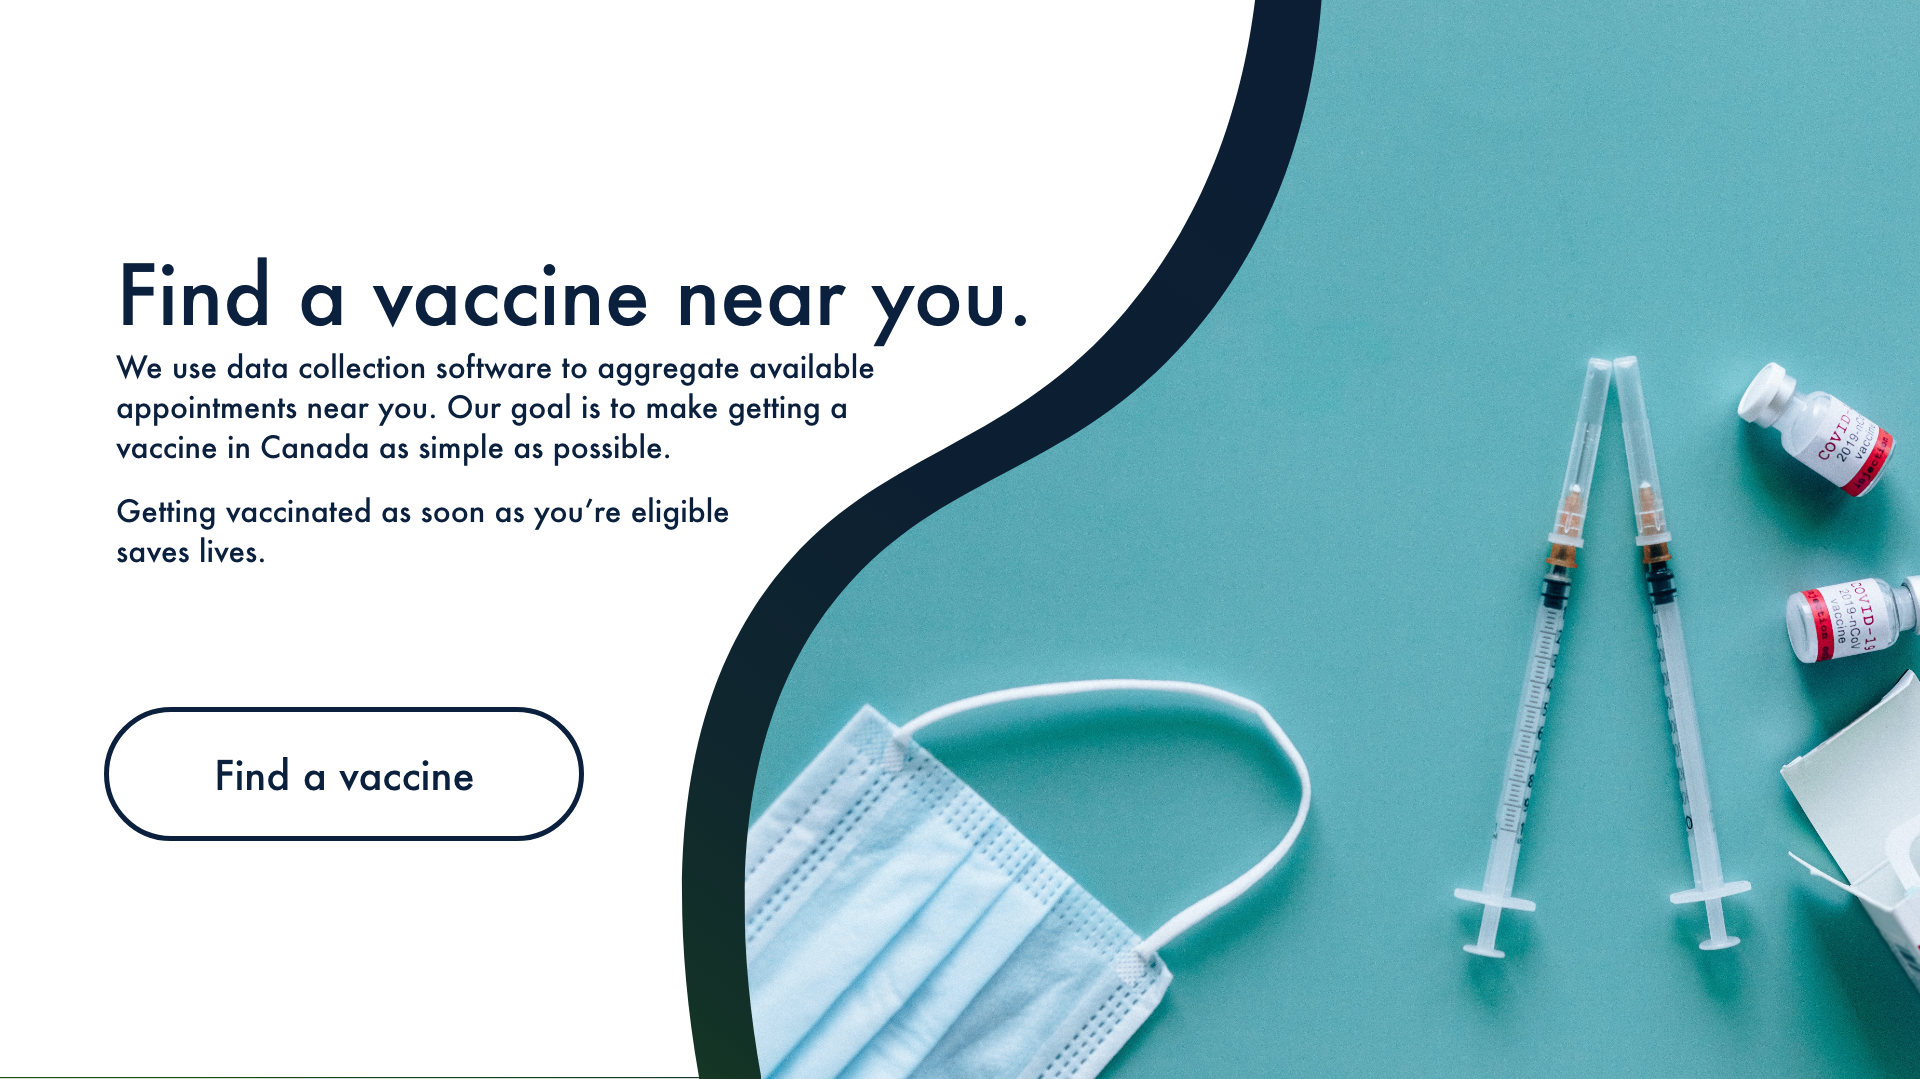
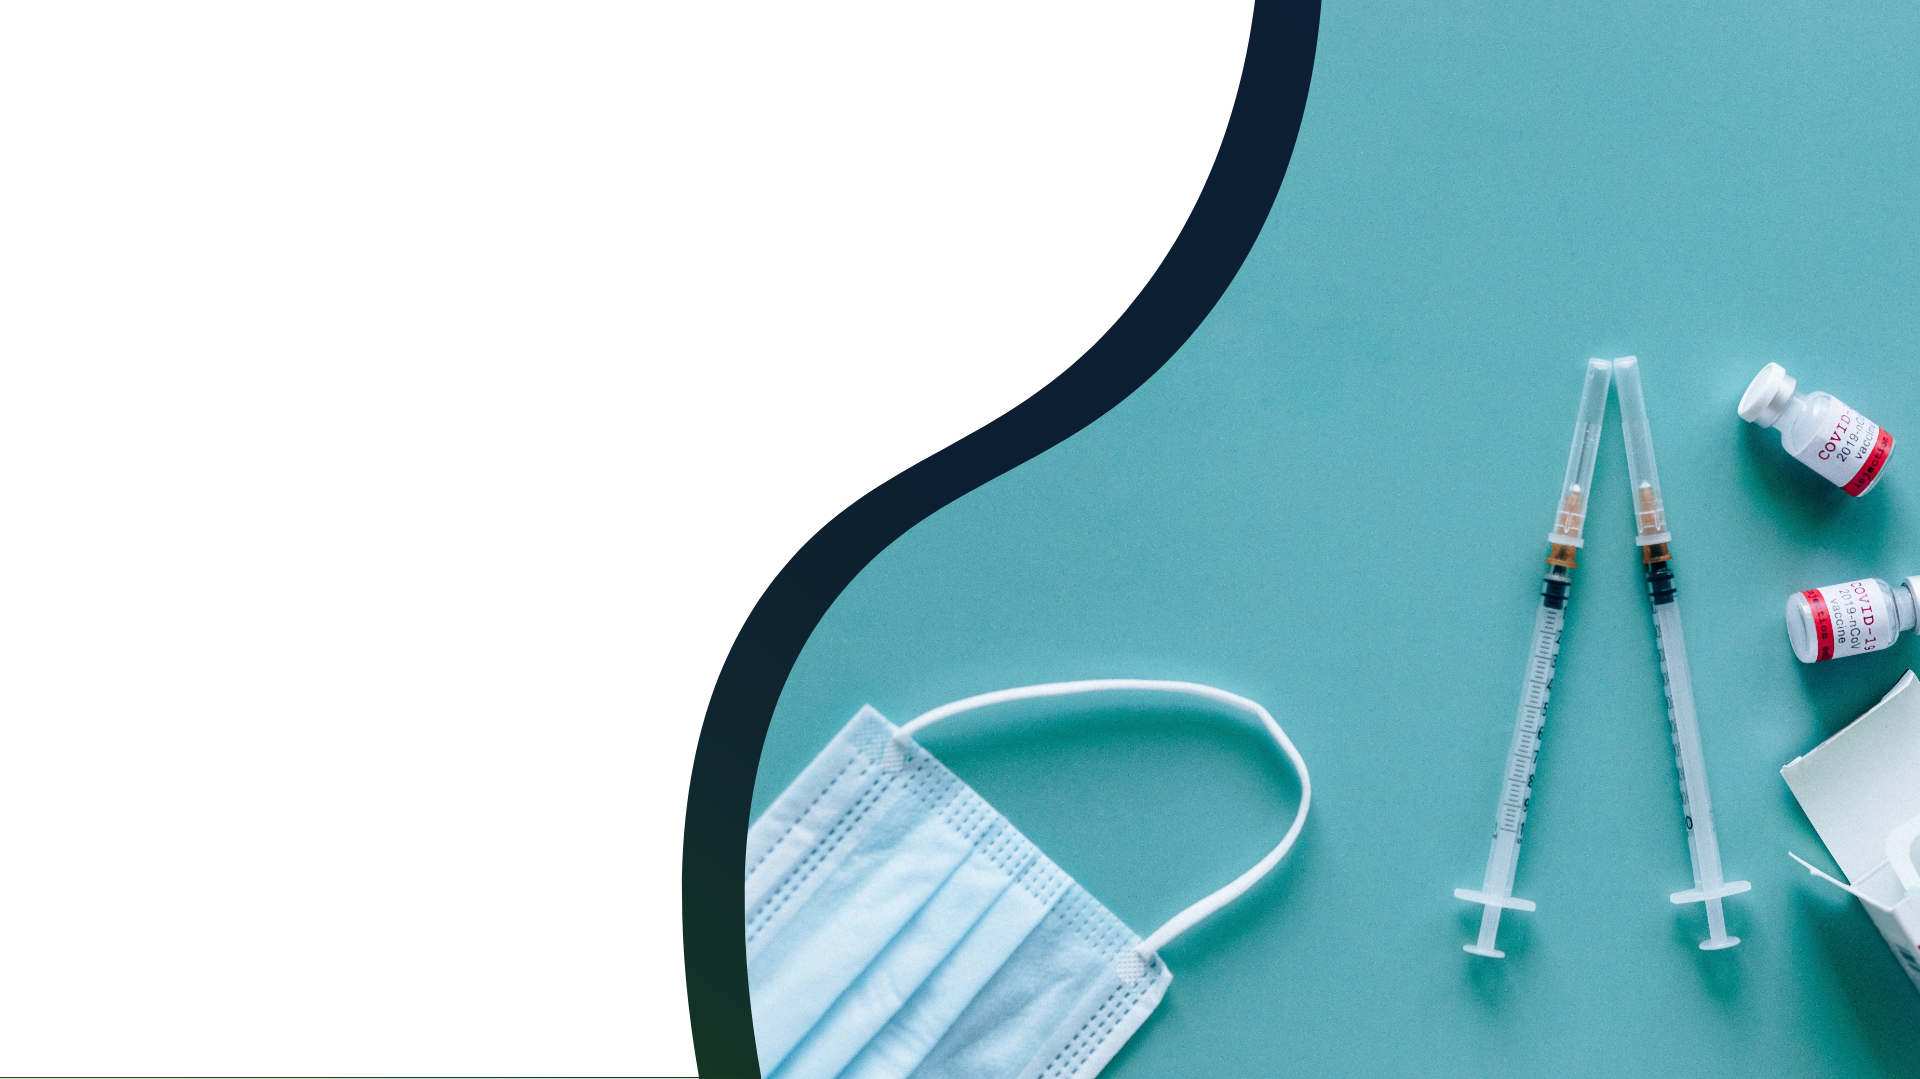
Background designs

diff --git a/templates/province.html b/templates/province.html
@@ -4,16 +4,16 @@
 <meta charset="utf-8"/>
 <meta http-equiv="X-UA-Compatible" content="IE=edge"/>
 <meta name="viewport" content="width=device-width, initial-scale=1.0">
-<title>Web 1920 – 3</title>
+<title>Province – 1</title>
 <style id="applicationStylesheet" type="text/css">
 	.mediaViewInfo {
-		--web-view-name: Web 1920 – 3;
-		--web-view-id: Web_1920__3;
+		--web-view-name: Province – 1;
+		--web-view-id: Province__1;
 		--web-scale-on-resize: true;
 		--web-enable-deep-linking: true;
 	}
 	:root {
-		--web-view-ids: Web_1920__3;
+		--web-view-ids: Province__1;
 	}
 	* {
 		margin: 0;
@@ -21,33 +21,16 @@
 		box-sizing: border-box;
 		border: none;
 	}
-	#Web_1920__3 {
+	#Province__1 {
 		position: absolute;
 		width: 1920px;
 		height: 1080px;
 		background-color: rgba(255,255,255,1);
 		overflow: hidden;
-		--web-view-name: Web 1920 – 3;
-		--web-view-id: Web_1920__3;
+		--web-view-name: Province – 1;
+		--web-view-id: Province__1;
 		--web-scale-on-resize: true;
 		--web-enable-deep-linking: true;
-	}
-	#Rectangle_120 {
-		fill: rgba(255,255,255,1);
-		stroke: rgba(112,112,112,1);
-		stroke-width: 1px;
-		stroke-linejoin: miter;
-		stroke-linecap: butt;
-		stroke-miterlimit: 4;
-		shape-rendering: auto;
-	}
-	.Rectangle_120 {
-		position: absolute;
-		overflow: visible;
-		width: 1013px;
-		height: 852px;
-		left: 846px;
-		top: 166px;
 	}
 	#Mask_Group_4 {
 		position: absolute;
@@ -57,35 +40,7 @@
 		top: 0px;
 		overflow: visible;
 	}
-	#Find_vaccines_near_you {
-		left: 483px;
-		top: 198px;
-		position: absolute;
-		overflow: visible;
-		width: 665px;
-		white-space: nowrap;
-		text-align: left;
-		font-family: Futura;
-		font-style: normal;
-		font-weight: normal;
-		font-size: 60px;
-		color: rgba(10,32,61,1);
-	}
-	#Click_anywhere_to_return_to_fu {
-		left: 483px;
-		top: 299px;
-		position: absolute;
-		overflow: visible;
-		width: 601px;
-		white-space: nowrap;
-		text-align: left;
-		font-family: Futura;
-		font-style: normal;
-		font-weight: normal;
-		font-size: 30px;
-		color: rgba(10,32,61,1);
-	}
-	#Group_87 {
+	#Component_11__2 {
 		position: absolute;
 		width: 1920px;
 		height: 135px;
@@ -113,108 +68,16 @@
 		top: 22px;
 		overflow: visible;
 	}
-	#Find_a_vaccine {
-		left: 361px;
-		top: 48px;
+	#map {
+		fill: rgba(255,255,255,1);
+	}
+	.map {
 		position: absolute;
 		overflow: visible;
-		width: 201px;
-		white-space: nowrap;
-		text-align: left;
-		font-family: Futura;
-		font-style: normal;
-		font-weight: normal;
-		font-size: 30px;
-		color: rgba(10,32,61,1);
-	}
-	#About_us {
-		left: 608px;
-		top: 48px;
-		position: absolute;
-		overflow: visible;
-		width: 201px;
-		white-space: nowrap;
-		text-align: left;
-		font-family: Futura;
-		font-style: normal;
-		font-weight: normal;
-		font-size: 30px;
-		color: rgba(10,32,61,1);
-	}
-	#Group_559 {
-		position: absolute;
-		width: 586px;
-		height: 465px;
-		left: 29px;
-		top: 540px;
-		overflow: visible;
-	}
-	#_Ontario {
-		left: 0px;
-		top: 0px;
-		position: absolute;
-		overflow: visible;
-		width: 587px;
-		white-space: nowrap;
-		text-align: left;
-		font-family: Futura;
-		font-style: normal;
-		font-weight: normal;
-		font-size: 80px;
-		color: rgba(255,255,255,1);
-	}
-	#Some_text_about_vaccinations_i {
-		left: 0px;
-		top: 210px;
-		position: absolute;
-		overflow: visible;
-		width: 449px;
-		white-space: nowrap;
-		text-align: left;
-		font-family: Futura;
-		font-style: normal;
-		font-weight: normal;
-		font-size: 40px;
-		color: rgba(255,255,255,1);
-	}
-	#Group_88 {
-		position: absolute;
-		width: 373px;
-		height: 104px;
-		left: 0px;
+		width: 954px;
+		height: 644px;
+		left: 867px;
 		top: 361px;
-		overflow: visible;
-	}
-	#Rectangle_66 {
-		fill: transparent;
-		stroke: rgba(255,255,255,1);
-		stroke-width: 5px;
-		stroke-linejoin: miter;
-		stroke-linecap: butt;
-		stroke-miterlimit: 4;
-		shape-rendering: auto;
-	}
-	.Rectangle_66 {
-		position: absolute;
-		overflow: visible;
-		width: 373px;
-		height: 104px;
-		left: 0px;
-		top: 0px;
-	}
-	#Find_an_appointment {
-		left: 42px;
-		top: 32px;
-		position: absolute;
-		overflow: visible;
-		width: 290px;
-		white-space: nowrap;
-		text-align: left;
-		font-family: Futura;
-		font-style: normal;
-		font-weight: normal;
-		font-size: 31px;
-		color: rgba(255,255,255,1);
 	}
 </style>
 <script id="applicationScript">
@@ -3057,50 +2920,21 @@ window.application = new Application();
 </script>
 </head>
 <body>
-<div id="Web_1920__3">
-	<svg class="Rectangle_120">
-		<rect id="Rectangle_120" rx="0" ry="0" x="0" y="0" width="1013" height="852">
-		</rect>
-	</svg>
+<div id="Province__1">
 	<img id="Mask_Group_4" src="Mask_Group_4.png" srcset="Mask_Group_4.png 1x, Mask_Group_4@2x.png 2x">
 		
 	</svg>
-	<div id="Find_vaccines_near_you">
-		<span>Find vaccines near you.</span>
-	</div>
-	<div id="Click_anywhere_to_return_to_fu">
-		<span>Click anywhere to return to full map view.</span>
-	</div>
-	<div id="Group_87">
+	<div id="Component_11__2" class="Component_11___2">
 		<svg class="Rectangle_80">
 			<rect id="Rectangle_80" rx="0" ry="0" x="0" y="0" width="1920" height="135">
 			</rect>
 		</svg>
 		<img id="Asset_1" src="Asset_1.png" srcset="Asset_1.png 1x, Asset_1@2x.png 2x">
 			
-		<div id="Find_a_vaccine">
-			<span>Find a vaccine</span>
-		</div>
-		<div id="About_us">
-			<span>About us</span>
-		</div>
 	</div>
-	<div id="Group_559">
-		<div id="_Ontario">
-			<span><br/>Ontario</span>
-		</div>
-		<div id="Some_text_about_vaccinations_i">
-			<span>[Some text about vaccinations in Ontario]</span>
-		</div>
-		<div id="Group_88">
-			<svg class="Rectangle_66">
-				<rect id="Rectangle_66" rx="52" ry="52" x="0" y="0" width="373" height="104">
-				</rect>
-			</svg>
-			<div id="Find_an_appointment">
-				<span>Find an appointment</span>
-			</div>
-		</div>
+	<div class="map">
+		<rect id="map" rx="0" ry="0" x="0" y="0" width="954" height="644">
+		</rect>
 	</div>
 </div>
 </body>

diff --git a/templates/main.html b/templates/main.html
@@ -4,16 +4,16 @@
 <meta charset="utf-8"/>
 <meta http-equiv="X-UA-Compatible" content="IE=edge"/>
 <meta name="viewport" content="width=device-width, initial-scale=1.0">
-<title>Web 1920 – 2</title>
+<title>main</title>
 <style id="applicationStylesheet" type="text/css">
 	.mediaViewInfo {
-		--web-view-name: Web 1920 – 2;
-		--web-view-id: Web_1920__2;
+		--web-view-name: main;
+		--web-view-id: main;
 		--web-scale-on-resize: true;
 		--web-enable-deep-linking: true;
 	}
 	:root {
-		--web-view-ids: Web_1920__2;
+		--web-view-ids: main;
 	}
 	* {
 		margin: 0;
@@ -21,14 +21,14 @@
 		box-sizing: border-box;
 		border: none;
 	}
-	#Web_1920__2 {
+	#main {
 		position: absolute;
 		width: 1920px;
 		height: 3290px;
 		background-color: rgba(255,255,255,1);
 		overflow: hidden;
-		--web-view-name: Web 1920 – 2;
-		--web-view-id: Web_1920__2;
+		--web-view-name: main;
+		--web-view-id: main;
 		--web-scale-on-resize: true;
 		--web-enable-deep-linking: true;
 	}
@@ -107,34 +107,6 @@
 		left: 110px;
 		top: 22px;
 		overflow: visible;
-	}
-	#Find_a_vaccine {
-		left: 361px;
-		top: 48px;
-		position: absolute;
-		overflow: visible;
-		width: 201px;
-		white-space: nowrap;
-		text-align: left;
-		font-family: Futura;
-		font-style: normal;
-		font-weight: normal;
-		font-size: 30px;
-		color: rgba(10,32,61,1);
-	}
-	#About_us {
-		left: 608px;
-		top: 48px;
-		position: absolute;
-		overflow: visible;
-		width: 201px;
-		white-space: nowrap;
-		text-align: left;
-		font-family: Futura;
-		font-style: normal;
-		font-weight: normal;
-		font-size: 30px;
-		color: rgba(10,32,61,1);
 	}
 </style>
 <script id="applicationScript">
@@ -2977,19 +2949,19 @@ window.application = new Application();
 </script>
 </head>
 <body>
-<div id="Web_1920__2">
+<div id="main">
 	<div id="home_page" class="home_page">
-		<img id="Mask_Group_12" src="/static/Mask_Group_12.png" srcset="/static/Mask_Group_12.png 1x, /static/Mask_Group_12@2x.png 2x">
+		<img id="Mask_Group_12" src="Mask_Group_12.png" srcset="Mask_Group_12.png 1x, Mask_Group_12@2x.png 2x">
 			
 		</svg>
 	</div>
 	<div id="what_is_vaccine_finder" class="what_is_vaccine_finder">
-		<img id="Mask_Group_9" src="/static/Mask_Group_9.png" srcset="/static/Mask_Group_9.png 1x, /static/Mask_Group_9@2x.png 2x">
+		<img id="Mask_Group_9" src="Mask_Group_9.png" srcset="Mask_Group_9.png 1x, Mask_Group_9@2x.png 2x">
 			
 		</svg>
 	</div>
 	<div id="vaccine_map" class="vaccine_map">
-		<img id="Mask_Group_6" src="/static/Mask_Group_6.png" srcset="/static/Mask_Group_6.png 1x, /static/Mask_Group_6@2x.png 2x">
+		<img id="Mask_Group_6" src="Mask_Group_6.png" srcset="Mask_Group_6.png 1x, Mask_Group_6@2x.png 2x">
 			
 		</svg>
 	</div>
@@ -2998,14 +2970,8 @@ window.application = new Application();
 			<rect id="Rectangle_80" rx="0" ry="0" x="0" y="0" width="1920" height="135">
 			</rect>
 		</svg>
-		<img id="Asset_1" src="/static/Asset_1.png" srcset="/static/Asset_1.png 1x, /static/Asset_1@2x.png 2x">
+		<img id="Asset_1" src="Asset_1.png" srcset="Asset_1.png 1x, Asset_1@2x.png 2x">
 			
-		<div id="Find_a_vaccine">
-			<span>Find a vaccine</span>
-		</div>
-		<div id="About_us">
-			<span>About us</span>
-		</div>
 	</div>
 </div>
 </body>
